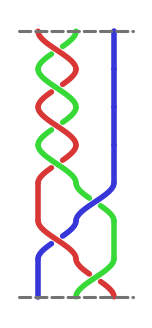
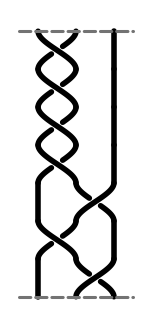
Add MIT license; render open braid example in a single colour

Changed region(s): [[0.2105, 0.061, 0.7895, 0.9146]]

diff --git a/README.md b/README.md
@@ -11,8 +11,9 @@ Everything is one self-contained script: [`make_braid.py`](make_braid.py).
 | <img src="docs/closed_braid.png" width="260"> | <img src="docs/open_braid.png" width="130"> |
 
 Both show the same braid `σ₁⁴σ₂⁻¹σ₁σ₂⁻¹` on 3 strands, with `--mark-ends`
-(dashed lines marking where the word starts/ends). Colours distinguish the
-link components of the closure.
+(dashed lines marking where the word starts/ends). The closed diagram colours
+each link component of the closure; the open one is drawn in a single colour
+(`--color-mode single`).
 
 ---
 
@@ -219,3 +220,9 @@ $ sage make_braid.py "1 1 1 1 -2 1 -2" -n 3 --info
 So the closure of that braid is the link **L7a6{0}**. The component count is
 computed in pure Python and is always available; the Jones polynomial and the
 KnotInfo identification need Sage.
+
+---
+
+## License
+
+[MIT](LICENSE)